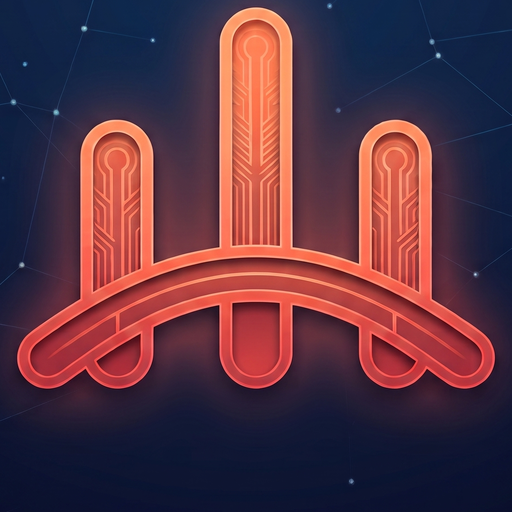
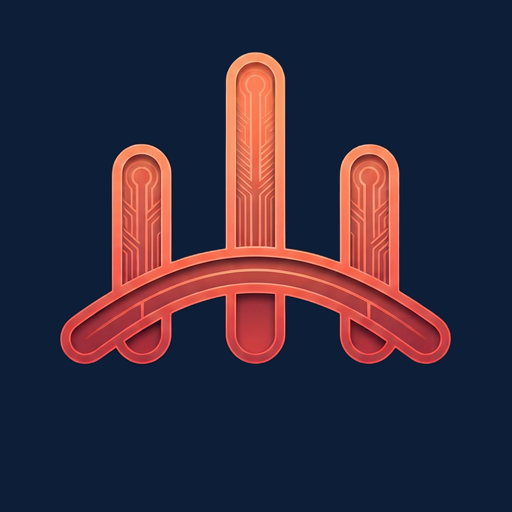
Add files via upload

diff --git a/app/Splash.js b/app/Splash.js
@@ -27,10 +27,10 @@ export default function Splash({ uscendo }) {
       `}</style>
 
       <img
-        src="/splash-mark.jpg"
+        src="/splash-mark.png"
         alt=""
         className="splash-img"
-        style={{ width: 148, height: 148, borderRadius: '50%', marginBottom: 22, objectFit: 'cover' }}
+        style={{ width: 168, height: 168, marginBottom: 22, objectFit: 'contain' }}
       />
 
       <h1 className="splash-name display" style={{ fontSize: 32, color: '#fff', margin: 0 }}>